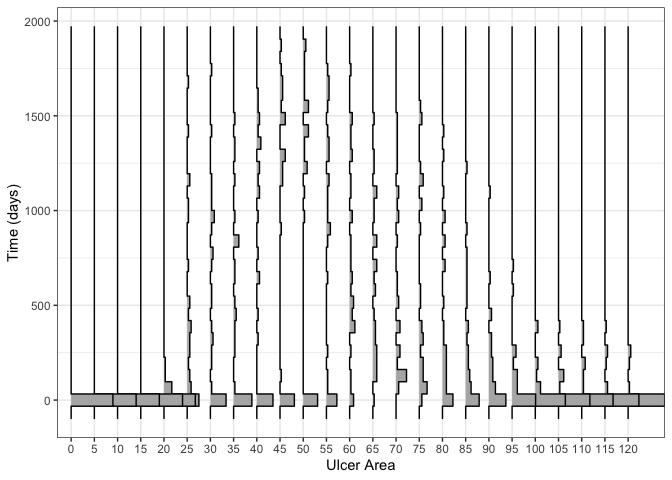
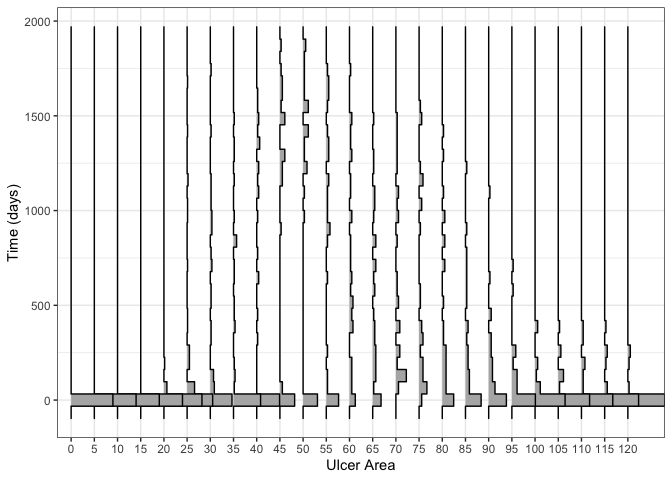
Update with independent ulcer assumptions

diff --git a/umb_cri_model_histopathology_figures.md b/umb_cri_model_histopathology_figures.md
@@ -28,7 +28,8 @@ load_ulcer_data <- function(path, sheet, range){
            localization_code = ifelse(is.na(localization_code),
                                       str_extract(comments, "(?<=Back-up site )\\w{1}(?= used)"),
                                       localization_code),
-           wound_id = paste0(subject_code, "_", localization_code),
+           wound_id = paste0(subject_code, "_", localization_code, "_",
+                             ulcer_label),
            time = as.numeric(str_extract(visit_code, "(?<=Day )\\d+"))
            ) |> 
     rename(ulcer_area = x2d_ulcer_area)
@@ -63,11 +64,7 @@ df_ulcer <- rbind(
                   sheet = "2 D Ulcer Area 745", range = "A1:J267"),
   load_ulcer_data("data/ulcer_area_and_histopath.xlsx", 
                   sheet = "2D Ulcer Area 384", range = "A1:J232")
-) |> 
-  group_by(time, wound_id) |> 
-  summarise(ulcer_area = sum(ulcer_area), 
-            animal_id = mean(subject_code), 
-            .groups="drop")
+) 
 
 # Histopath data
 df_histopath <- read_xlsx("data/ulcer_area_and_histopath.xlsx", 
@@ -107,15 +104,15 @@ ggsave("images/ulcer_vs_time_line_graph.png", plot = ulcer_plot_line)
 ``` r
 # Overlayed lines
 overlay_ulcer_plot_line <- df_ulcer |> 
-  mutate(animal_id = as.factor(animal_id)) |> 
+  mutate(animal_id = as.factor(subject_code)) |> 
   group_by(animal_id, time) |> 
   summarise(avg_area = mean(ulcer_area), sd_area = sd(ulcer_area),
             .groups="drop") |> 
   ggplot(aes(x = time, y = avg_area, color = animal_id)) + 
+    geom_line(data = df_summary, aes(y = avg_area, color = "Mean"), size = 0.8) +
   geom_line(alpha = 0.8, linetype = "dashed") +
-  geom_line(data = df_summary, aes(y = avg_area, color = NULL), size = 0.8) +
   theme_bw() + 
-  scale_color_manual(values = manual_cb[2:5]) +
+  scale_color_manual(values = manual_cb[1:5], breaks = c("Mean", "384", "745", "903", "987")) +
   labs(x = "Time (days)", 
        y = parse(text = "Average~Ulcer~Area~(mm^2)"), 
        color = "Animal ID") +
@@ -140,7 +137,7 @@ df_ulcer |>
   ggplot(aes(x = time, y = ulcer_area, group = wound_id, color = wound_id)) + 
   geom_point() + 
   geom_line() +
-  scale_color_manual(values = rep(manual_cb, 4)) +
+  #scale_color_manual(values = rep(manual_cb, 4)) +
   theme_bw() +
   theme(legend.position = "none") +
   labs(x = "Time (days)", y = "Ulcer Area (units??)")
